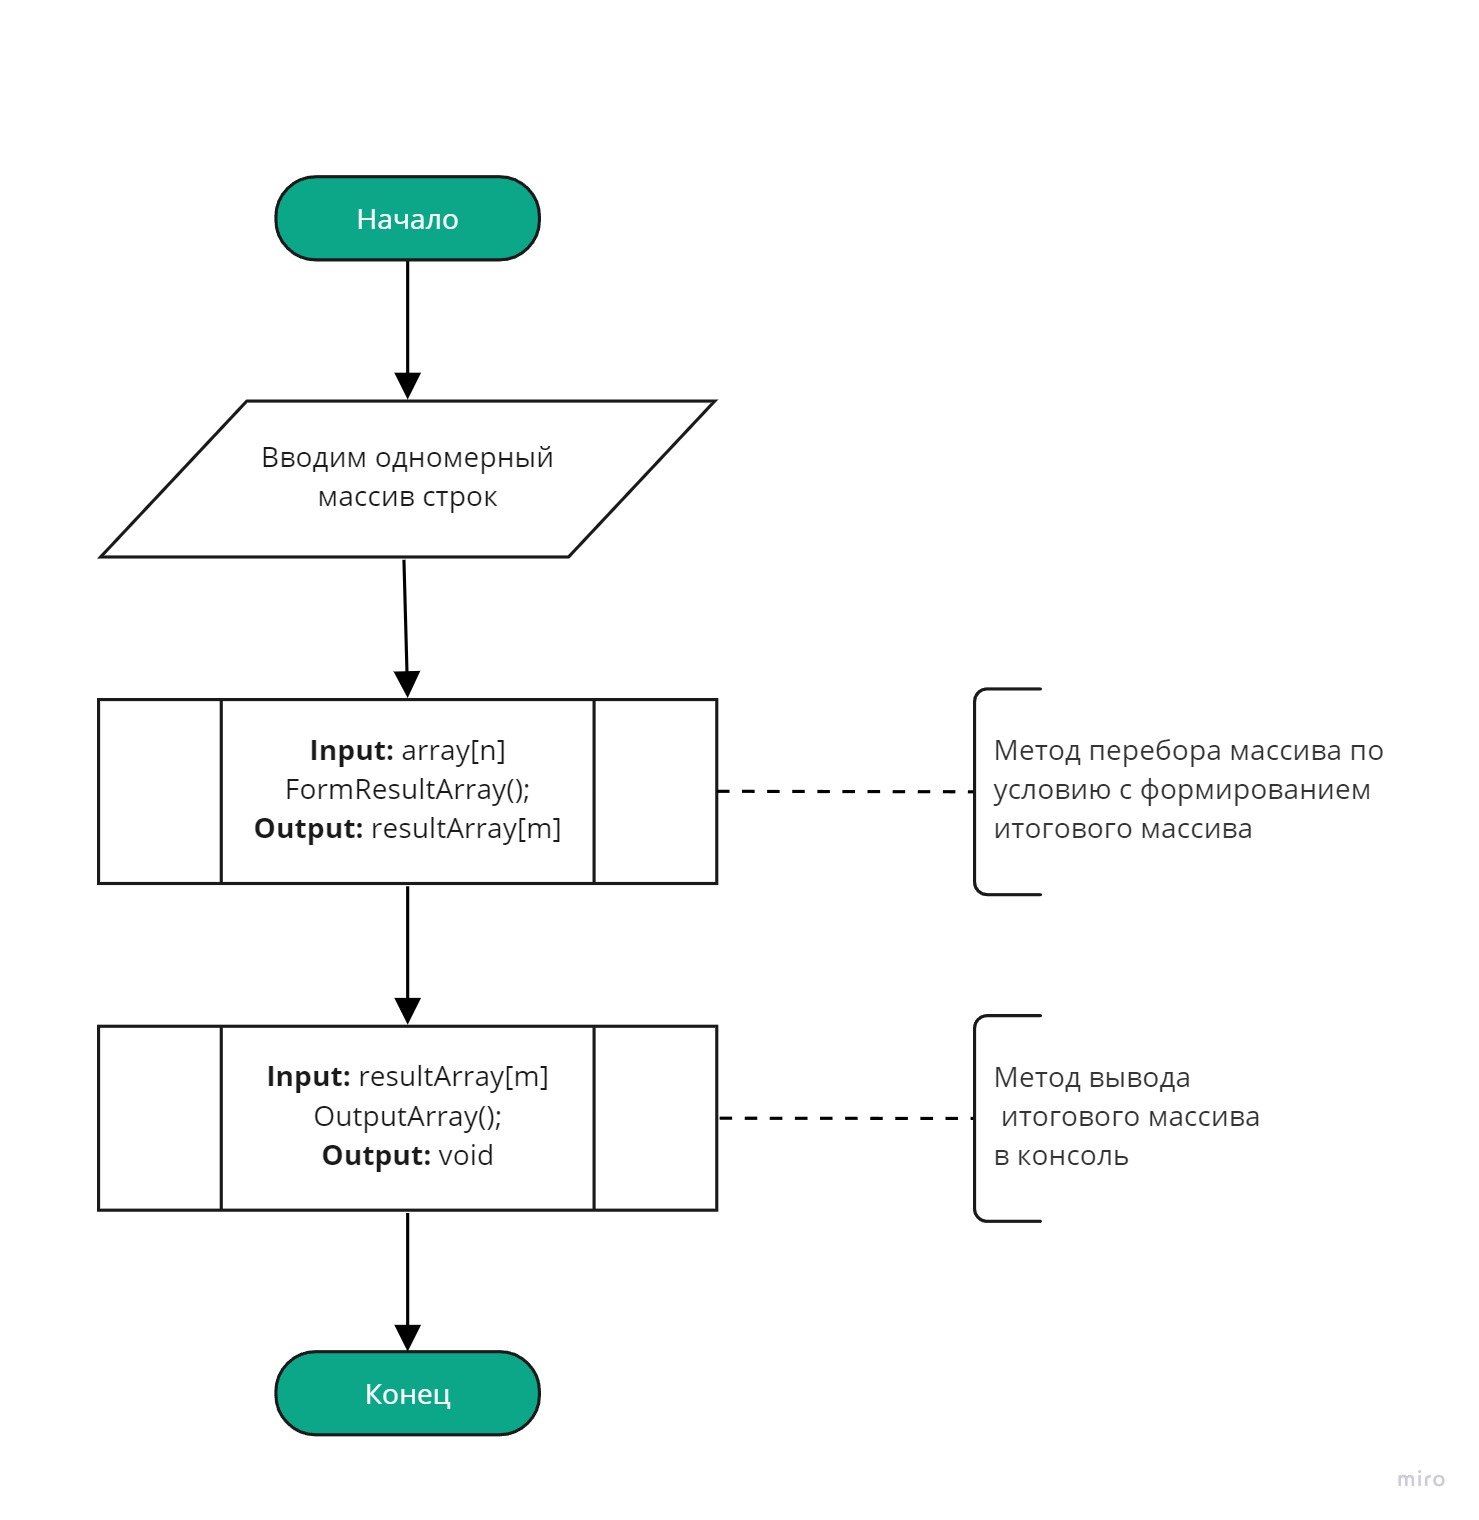
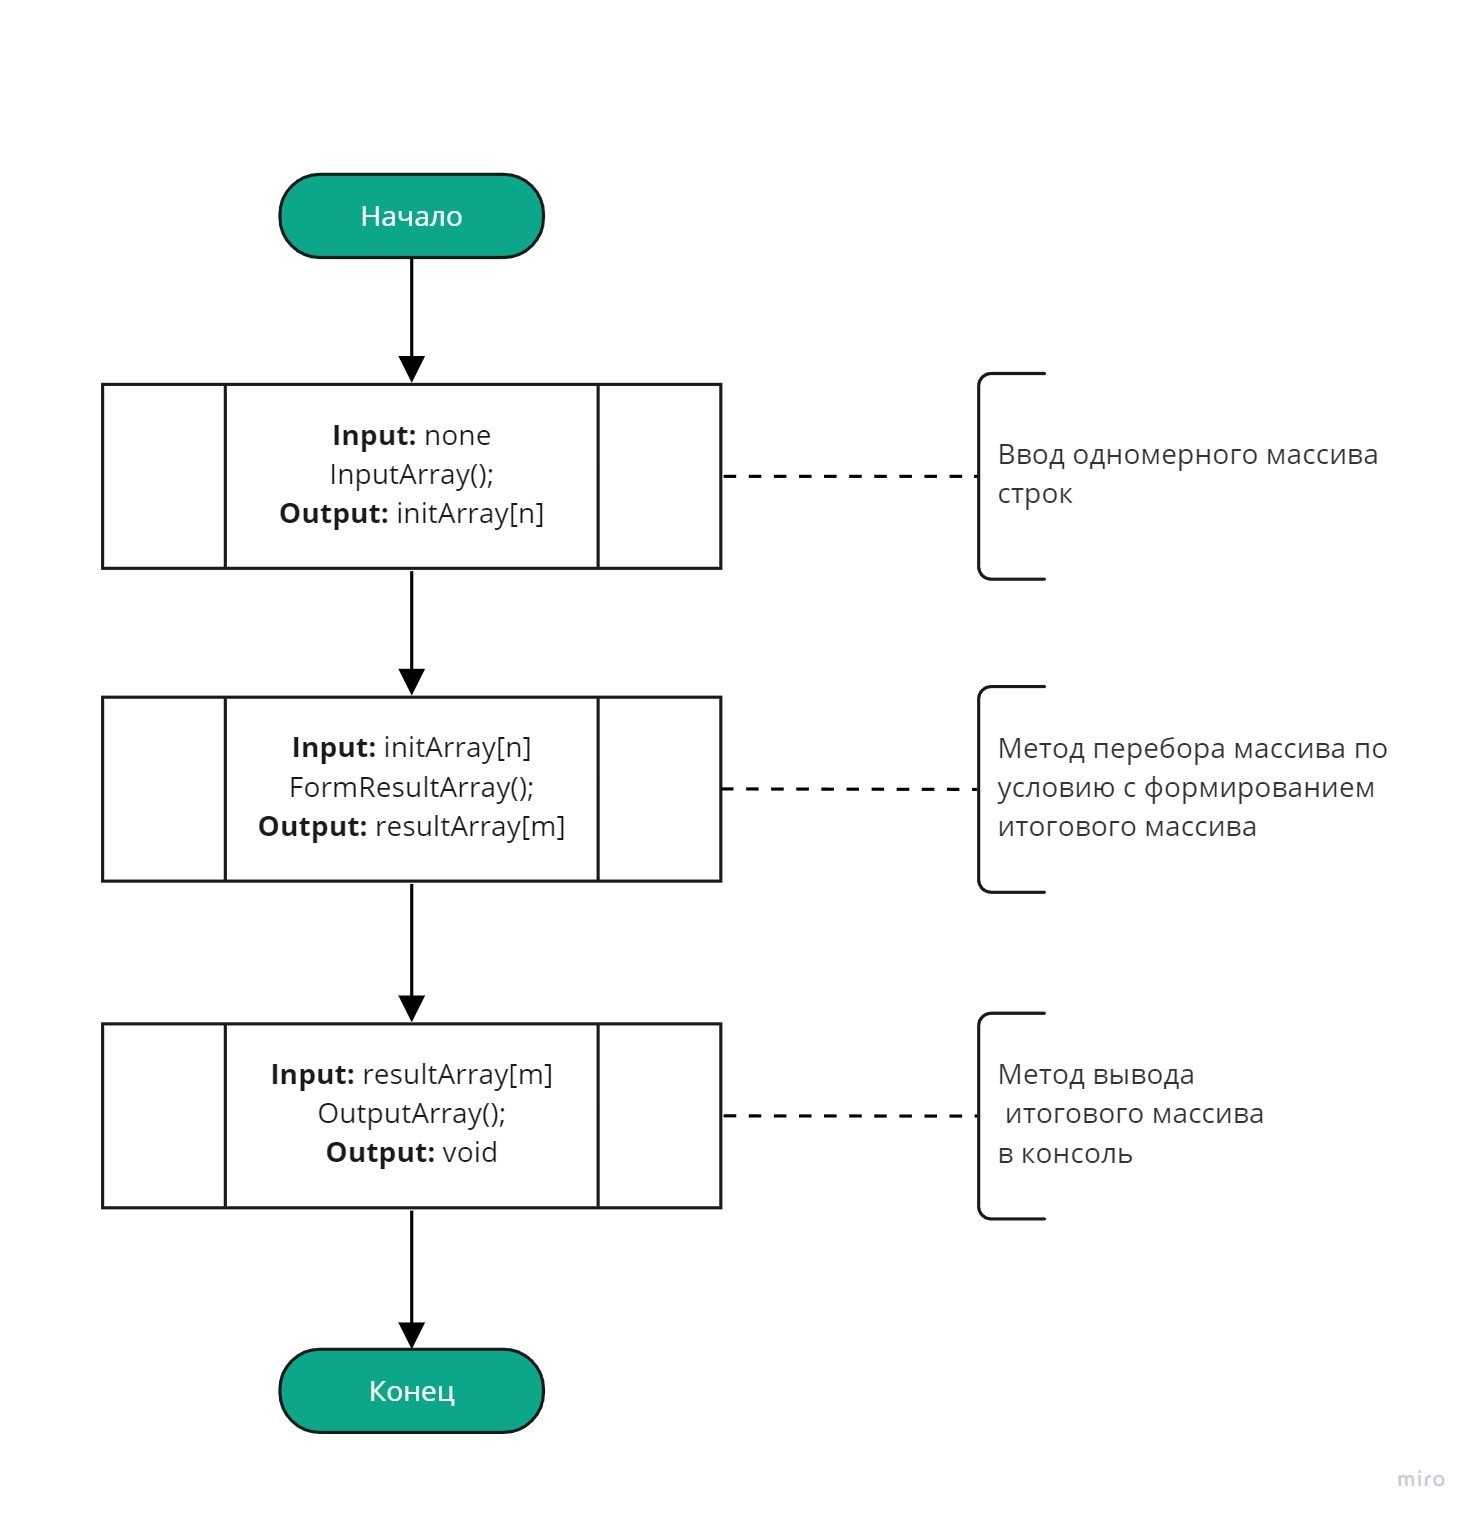
The main block diagram has been changed, accounting an input method and a comment to it

diff --git a/Form3SymbArray/Program.cs b/Form3SymbArray/Program.cs
@@ -11,7 +11,7 @@ void Form3SymbolArray()
    Console.Clear();
 
    // Gets initial array
-   string[] initArray = inputArray();
+   string[] initArray = InputArray();
 
    // Forms the array by conditions
    string[] resultArray = FormResultArray(initArray);
@@ -79,11 +79,11 @@ void OutputArray(string[] array)
 }
 
 // Inputs an array
-string[] inputArray()
+string[] InputArray()
 {
    string[] initArray = new string[]
-   {"Russia", "Denmark", "Kazan", ""};
-   // {"hello", "2", "", "world", ":-)"};
+   // {"Russia", "Denmark", "Kazan", ""};
+   {"hello", "2", "", "world", ":-)"};
    // {"1234", "1567", "-2", "computer science"};
    return initArray;
 }

diff --git a/README.md b/README.md
@@ -26,7 +26,7 @@
 
    - **Основной метод.** Состоит из трёх основных блоков
 
-     1. блок ввода массива (может осуществляться различными методами)
+     1. блок метода ввода массива (приведены три массива из задания, два из них закомментированы)
      2. блок метода формирования массива по условию
      3. блок печати массива
      4. <img src="./img/mainScheme.jpg">
